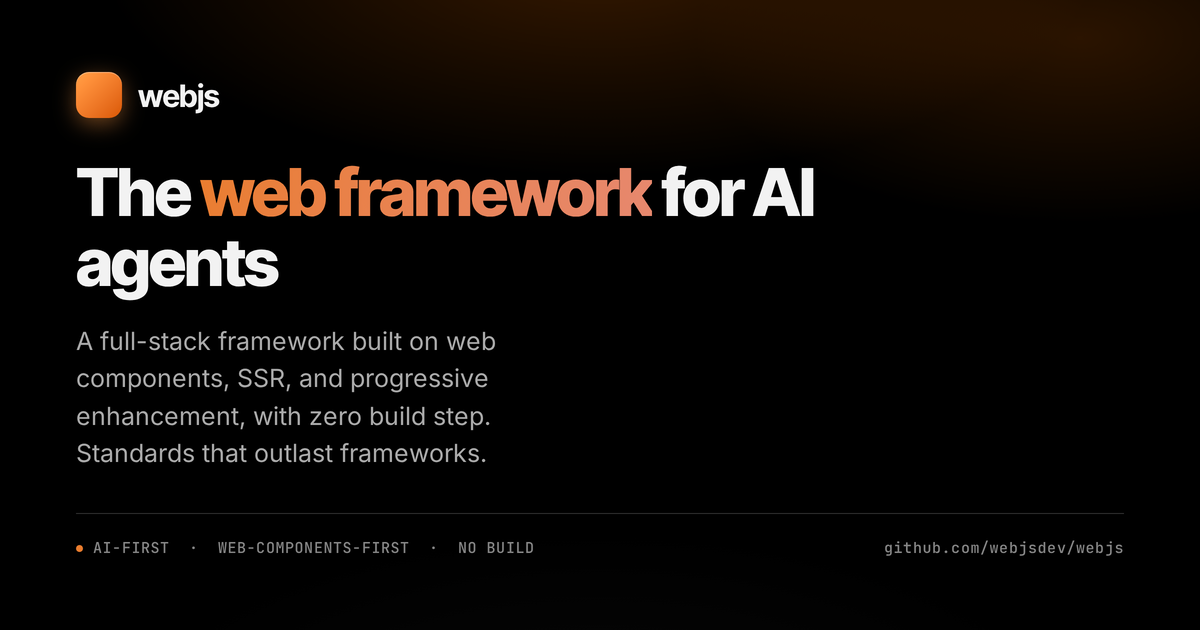
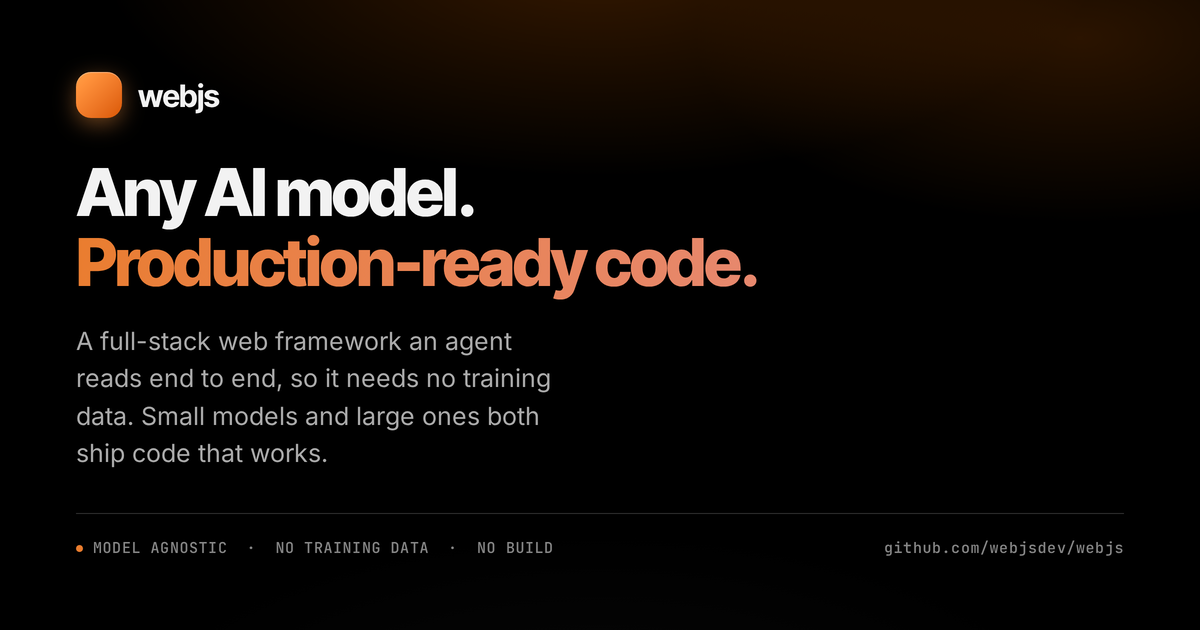
feat(website): make the OG cards lead with the user benefit
Both social cards described the framework's mechanism (AI agents read the
source, no bundler) before saying what the reader actually gets out of it.
A card is read in a timeline by someone who has never heard of WebJs, so
it has to answer 'what do I get' first.

Home card now leads with 'Any AI model. Production-ready code.' and the
/why card with 'The model-agnostic web framework', keeping only the two
technical facts that make the claim credible. og:image:alt on both pages
now describes what the card says rather than repeating the page title.

Changed region(s): [[0.0617, 0.2413, 0.6783, 0.4825], [0.0617, 0.5127, 0.4625, 0.754], [0.0617, 0.8444, 0.4625, 0.8746]]

diff --git a/website/app/layout.ts b/website/app/layout.ts
@@ -19,6 +19,10 @@ import { siteFooter } from '#lib/site-footer.ts';
 
 const TITLE = 'WebJs - The Web Framework for AI Agents';
 const DESCRIPTION = 'A full-stack web framework built on web components, SSR, and progressive enhancement, with zero build step. Lean enough for AI agents to read end to end. File-based routing, server actions, and streaming SSR on web standards. Runs on Node 24+ or Bun.';
+// Describes what the social card itself SAYS (public/og.png), which is the
+// benefit-led line, not the page title. Kept in lockstep with the headline in
+// scripts/generate-og.mjs.
+const OG_IMAGE_ALT = 'WebJs, any AI model produces production-ready code';
 
 const NAV = [
   { label: 'Docs', href: DOCS_URL + '/docs/getting-started', ext: true },
@@ -51,7 +55,7 @@ export function generateMetadata(ctx: { url: string }) {
       image,
       'image:width': '1200',
       'image:height': '630',
-      'image:alt': TITLE,
+      'image:alt': OG_IMAGE_ALT,
       'site_name': 'WebJs',
     },
     twitter: { card: 'summary_large_image', title: TITLE, description: DESCRIPTION, image },

diff --git a/website/app/why/page.ts b/website/app/why/page.ts
@@ -34,7 +34,7 @@ export function generateMetadata(ctx: { url: string }) {
       image,
       'image:width': '1200',
       'image:height': '630',
-      'image:alt': 'Why WebJs, the framework your AI agent already understands',
+      'image:alt': 'Why WebJs, the model-agnostic web framework that needs no training data',
       'site_name': 'WebJs',
     },
     twitter: { card: 'summary_large_image', title, description, image },
